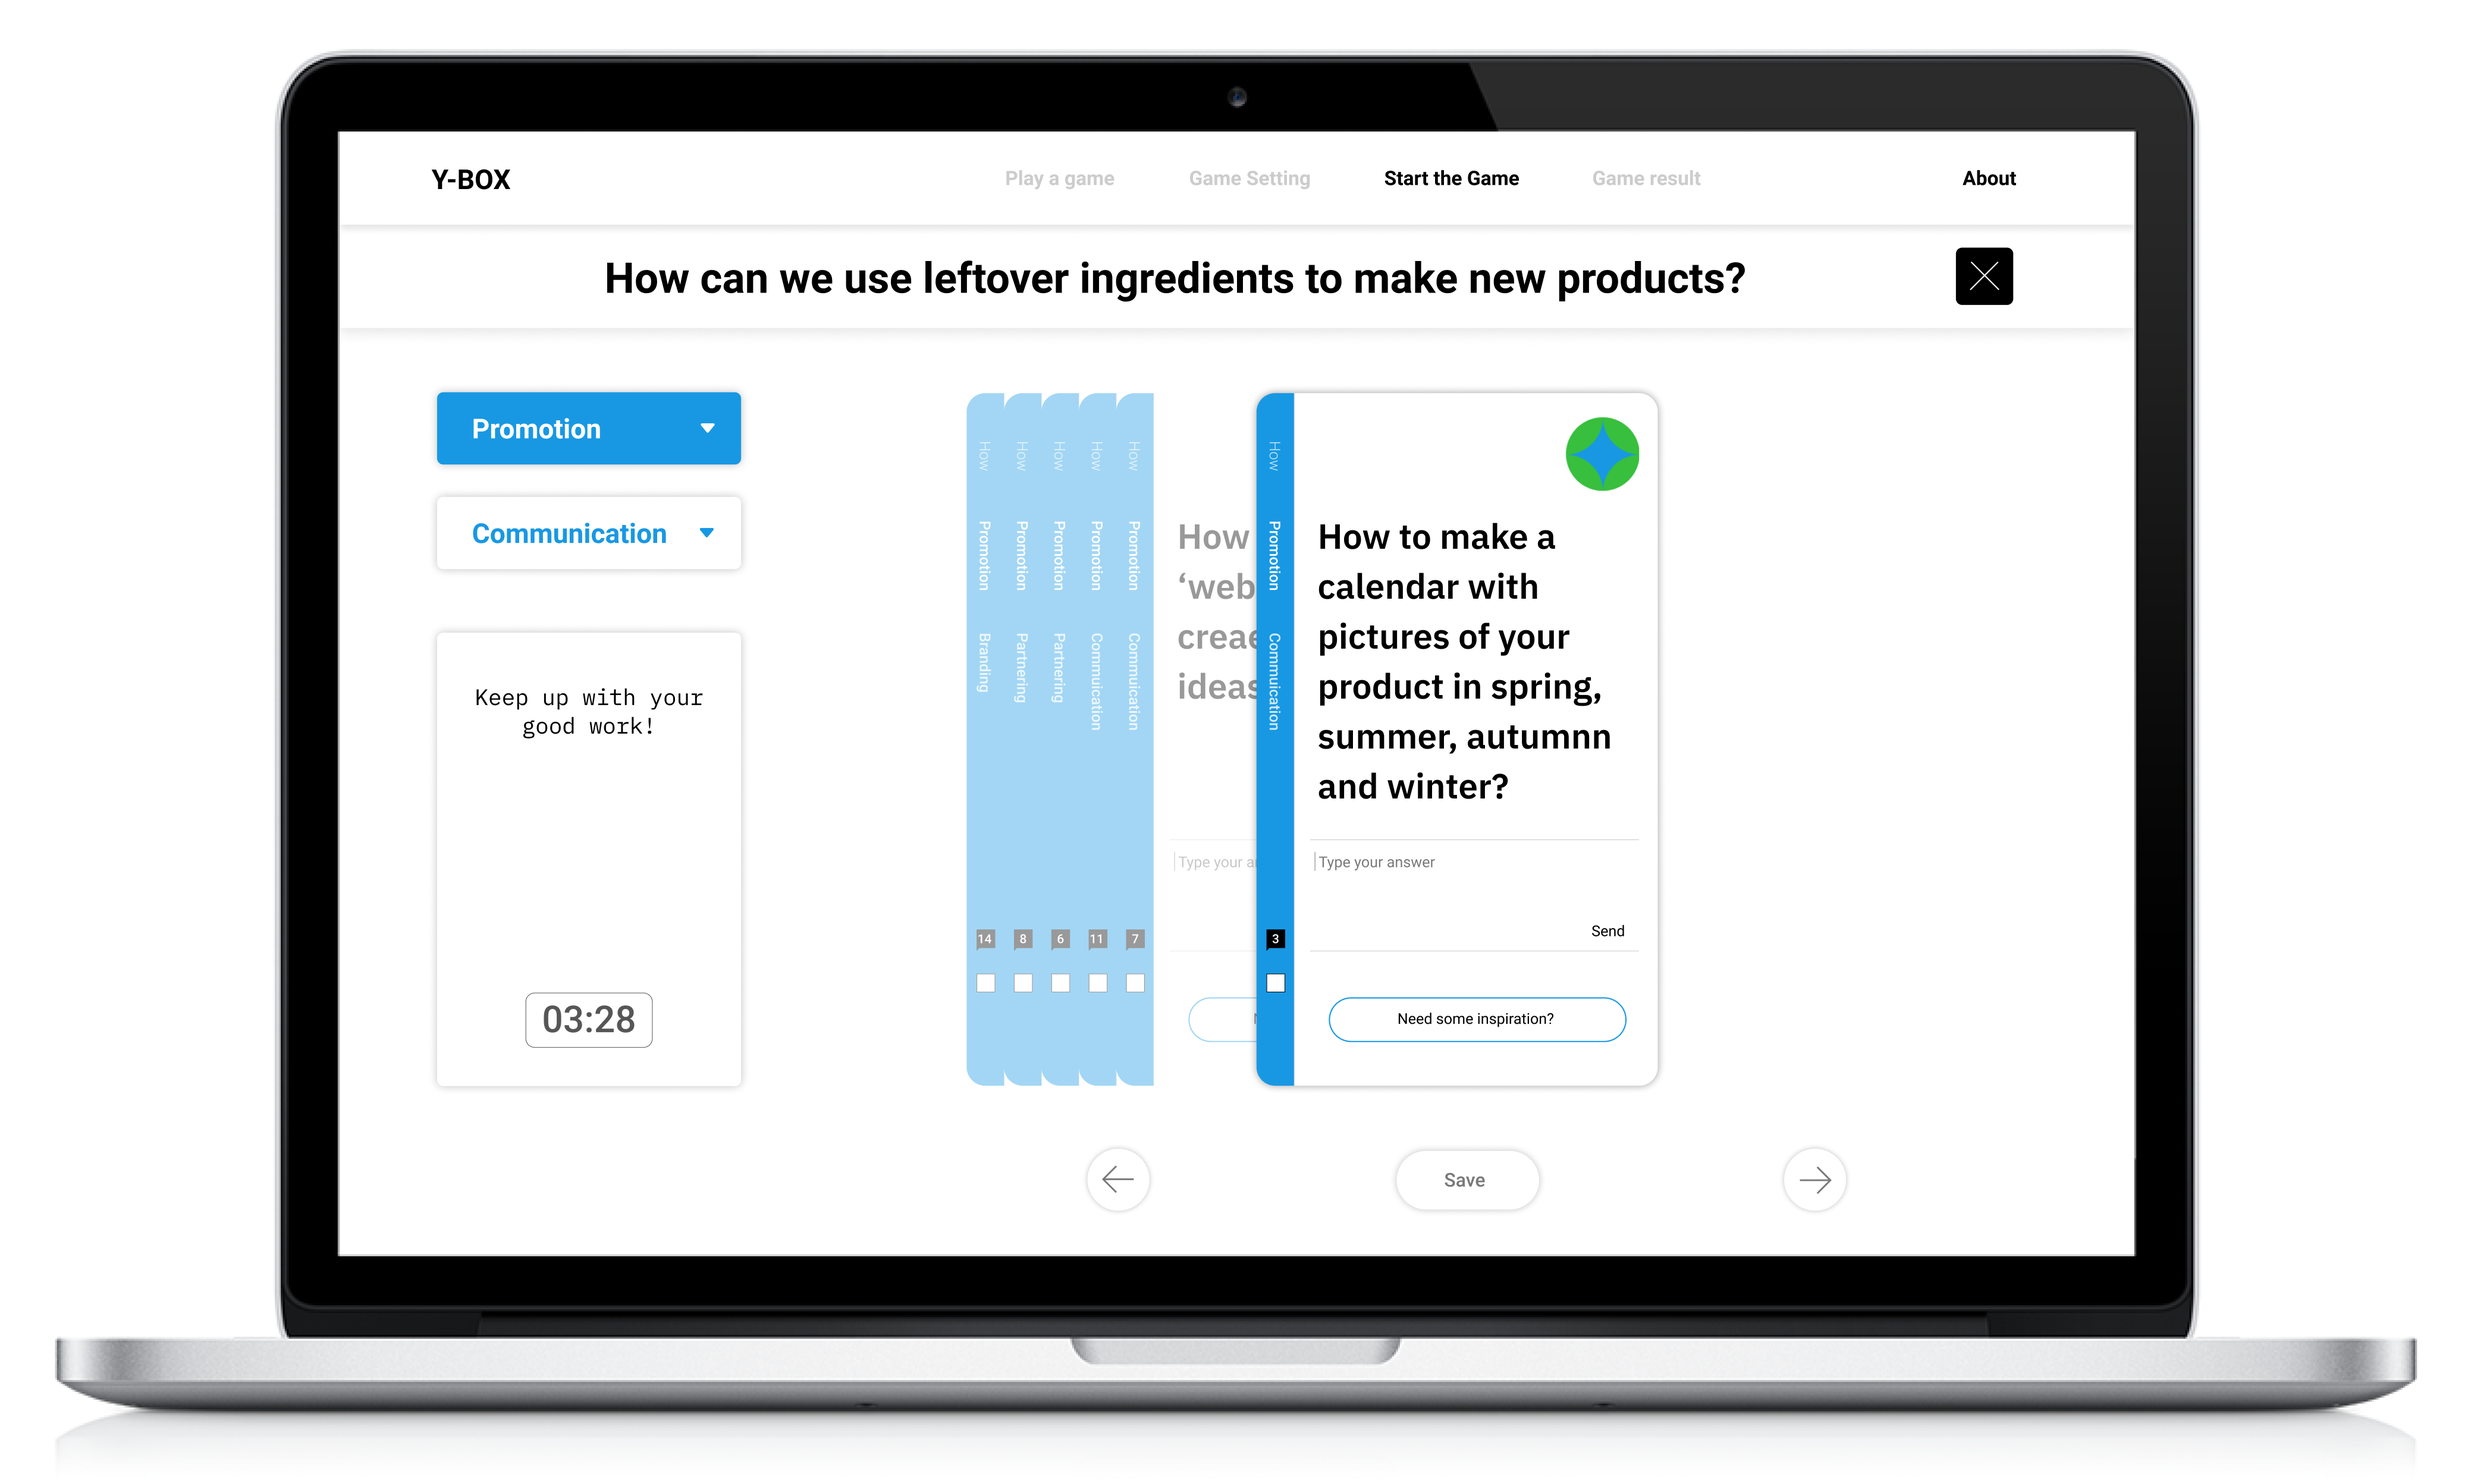
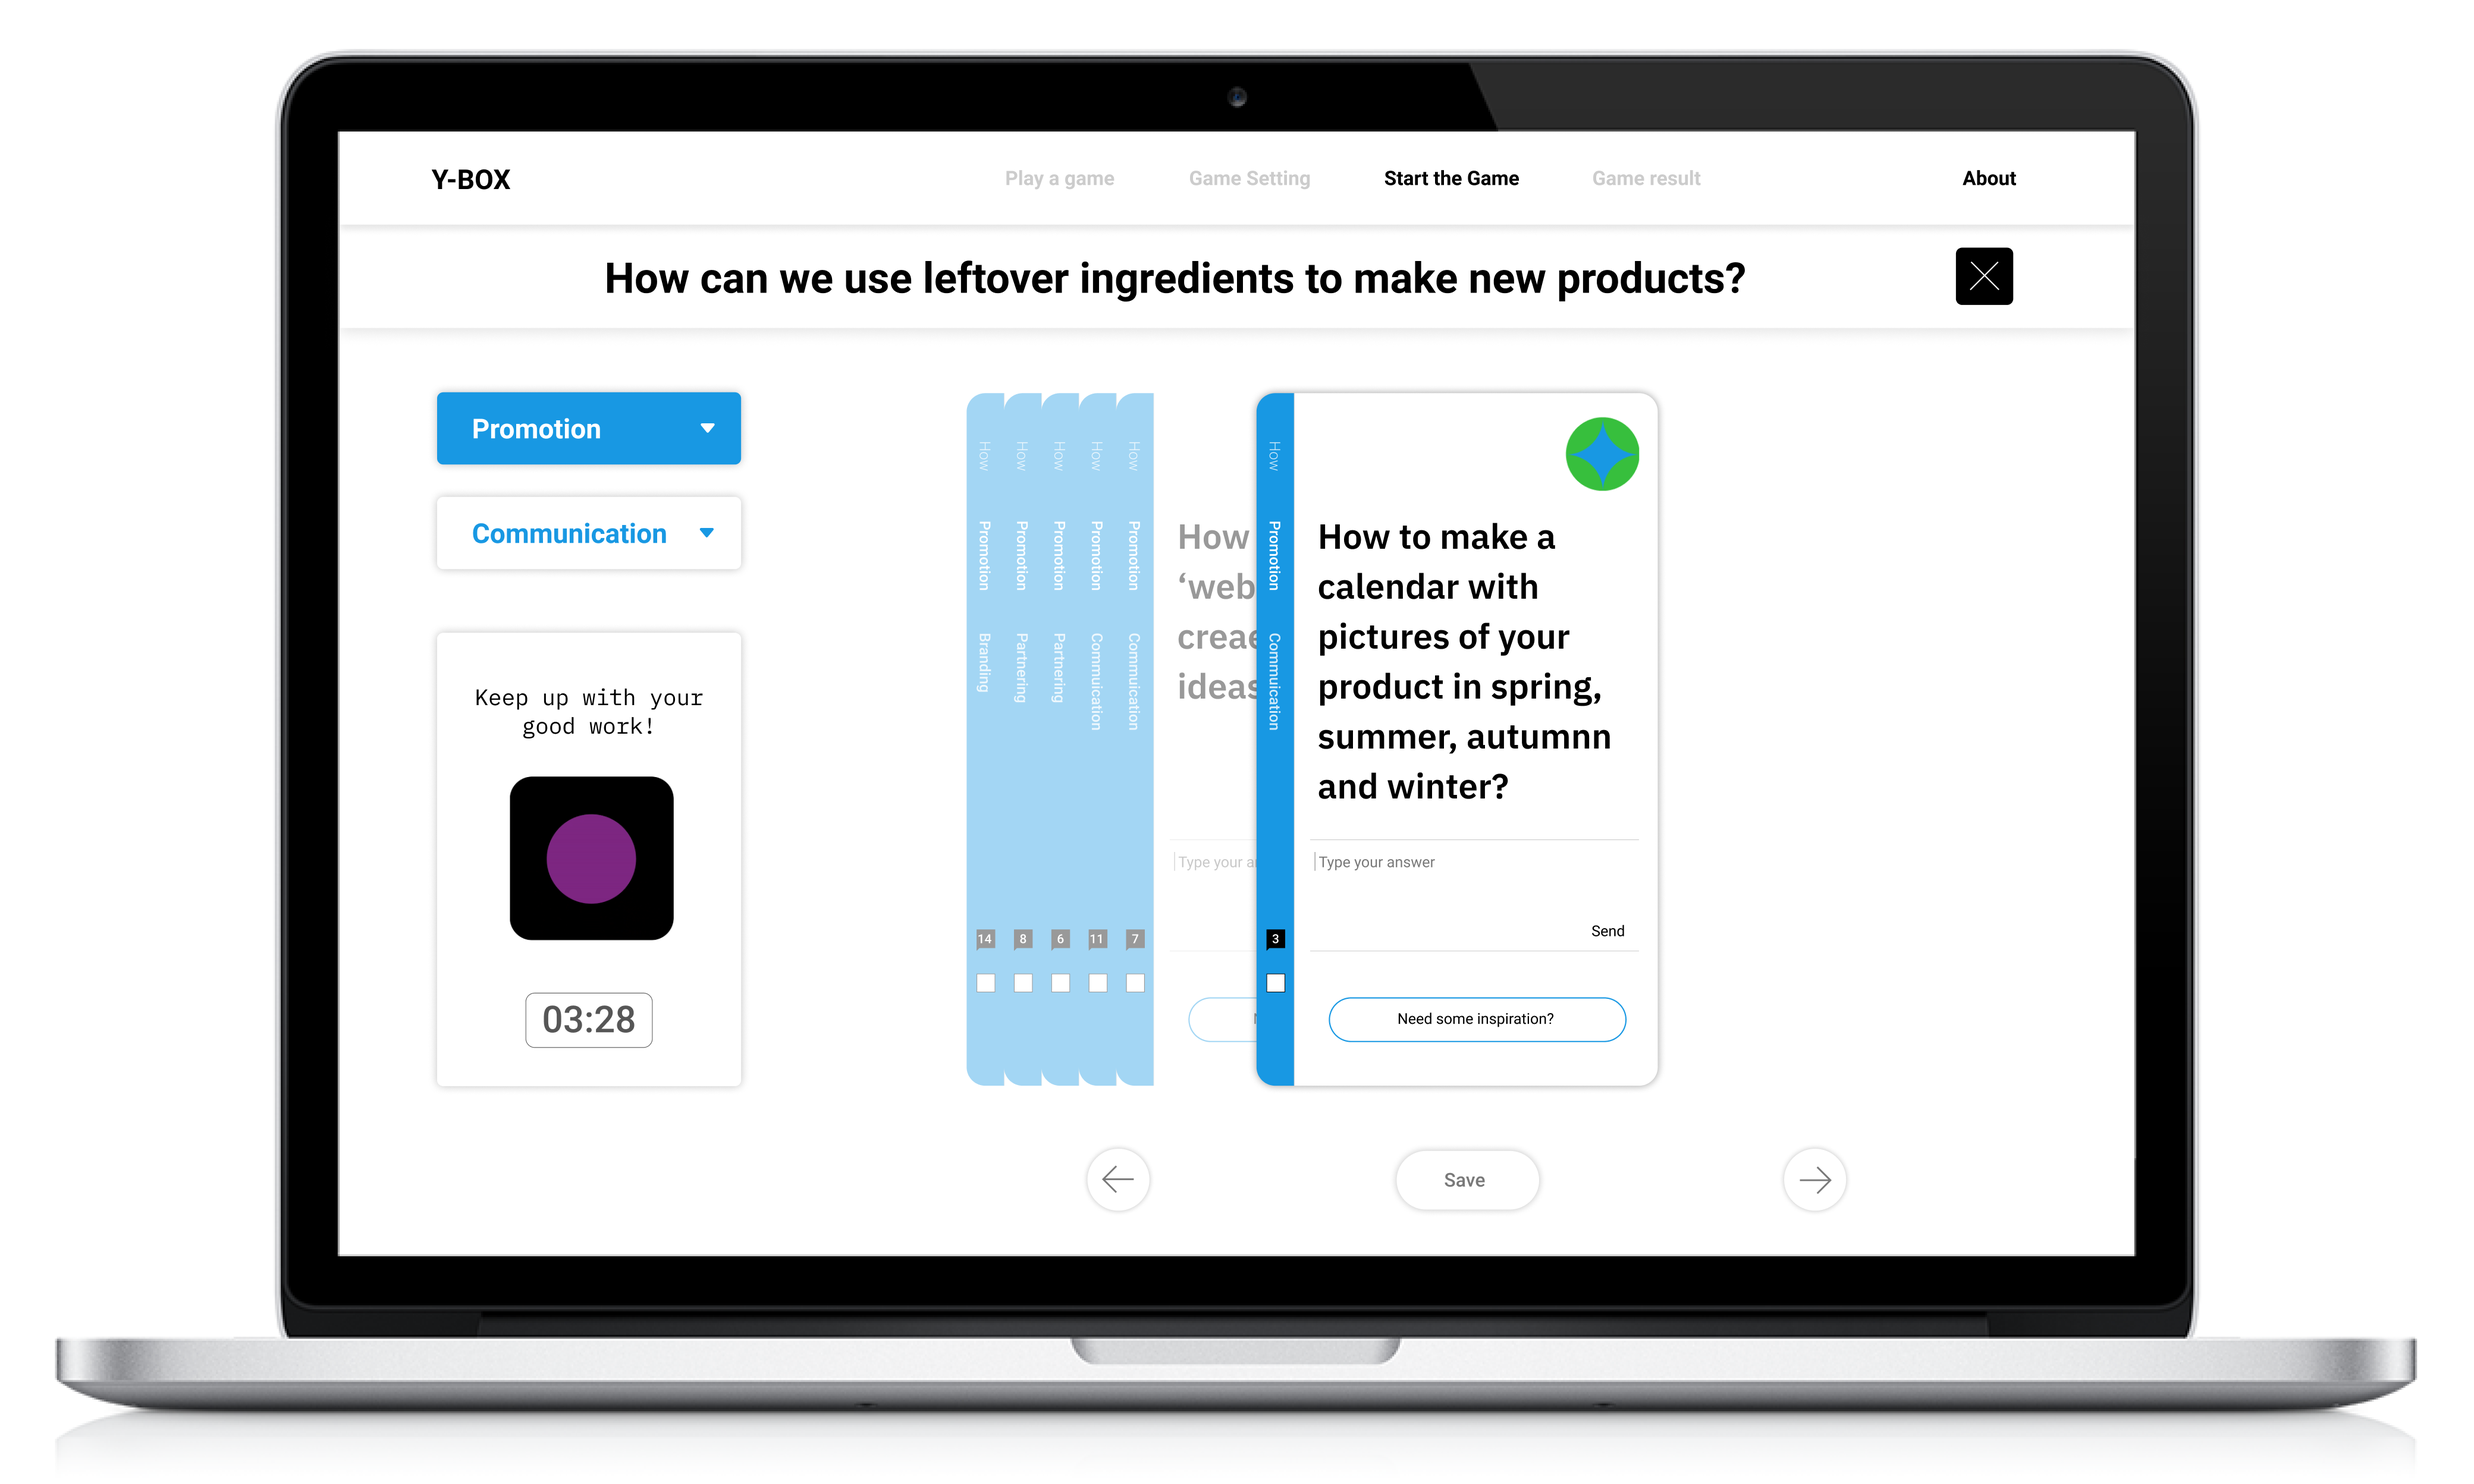
CSS update5

Changed region(s): [[0.1875, 0.5, 0.2812, 0.6562]]

diff --git a/src/public/css/aboutstyle.css b/src/public/css/aboutstyle.css
@@ -1,0 +1,101 @@
+@import url('https://fonts.googleapis.com/css2?family=Roboto:wght@100;300;400;500;700;900&display=swap');
+
+* {
+    margin: 0;
+    padding: 0;
+    font-family: 'Roboto', sans-serif;
+    font-style: normal;
+}
+
+body {
+    margin: 0 auto;
+    background-color: black;
+    color: white;
+    text-align: center;
+}
+
+header {
+    font-weight: bold;
+    display: flex;
+    justify-content: space-between;
+    align-items: center;
+    width: 1440px;
+    height: 70px;
+}
+
+a[href] {
+    text-decoration: none;
+    color: white;
+}
+
+ul {
+    display: flex;
+}
+
+li {
+    justify-content: space-around;
+    list-style: none;
+}
+
+.logo {
+    font-size: 22px;
+    line-height: 26px;
+    margin: 22px 38px;
+}
+
+button {
+    font-weight: bold;
+    font-size: 16px;
+    line-height: 19px;
+    outline: none;
+    margin-right: 35px;
+}
+
+.border {
+    padding: 0;
+    width: 184px;
+    height: 45px;
+    border: 1px solid #fff;
+    border-radius: 30px;
+    background-color: black;
+    color: white;
+}
+
+.border:hover {
+    background-color: white;
+    color: black;
+}
+
+.no_border {
+    border: none;
+    padding: 3px 14px;
+    background-color: transparent;
+}
+
+.section1 {
+    width: 1440px;
+    height: 900px;
+}
+
+.title {
+    display: block;
+    margin-top: 70px;
+    font-weight: 900;
+    font-size: 48px;
+    line-height: 56px;
+}
+
+#circle_image {
+    margin: 60px auto;
+    width: 241px;
+    height: 246px;
+}
+
+#detail {
+    font-weight: normal;
+    font-size: 20px;
+    line-height: 30px;
+    margin: 0 auto;
+    width: 884px;
+    height: 384px;
+}

diff --git a/src/public/css/style.css b/src/public/css/style.css
@@ -32,6 +32,7 @@
 }
 
 body {
+    margin: 0 auto;
     background-color: black;
     color: white;
     text-align: center;
@@ -689,12 +690,15 @@ button {
     top: 330px;
 }
 
-#tempo {
+.tempogif {
     position: absolute;
     width: 588px;
     height: 373px;
     left: 97px;
     top: 199.52px;
+    background-color: white;
+    border-radius: 30px;
+    box-shadow: inset 0px 0px 7px rgba(0, 0, 0, 0.4);
 }
 
 .features_text.tempo {
@@ -974,4 +978,31 @@ textarea {
     font-size: 14px;
     line-height: 22px;
     color: black;
+}
+
+#gif {
+    width: 87.65px;
+    height: 75.76px;
+}
+
+#slider {
+    position: absolute;
+    left: 93.21px;
+    top: 255px;
+    -webkit-appearance: none;
+    width: 397.07px;
+    height: 5px;
+    background: black;
+    outline: none;
+}
+
+.tempogif input::-webkit-slider-thumb {
+    -webkit-appearance: none;
+    height: 20px;
+    width: 20px;
+    background: var(--promotion-color);
+    border-radius: 50px;
+    width: 41px;
+    height: 41px;
+    cursor: pointer;
 }
